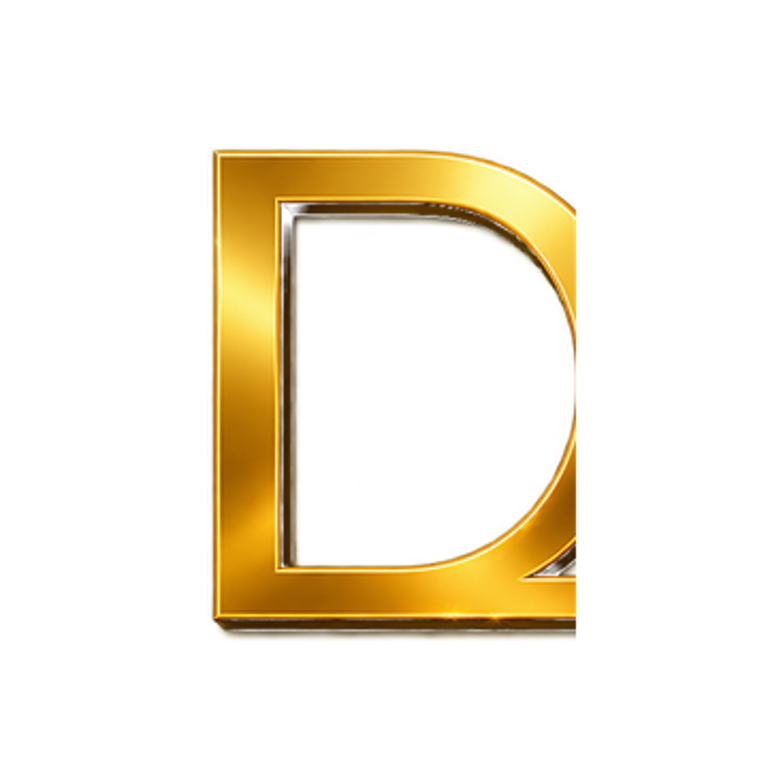
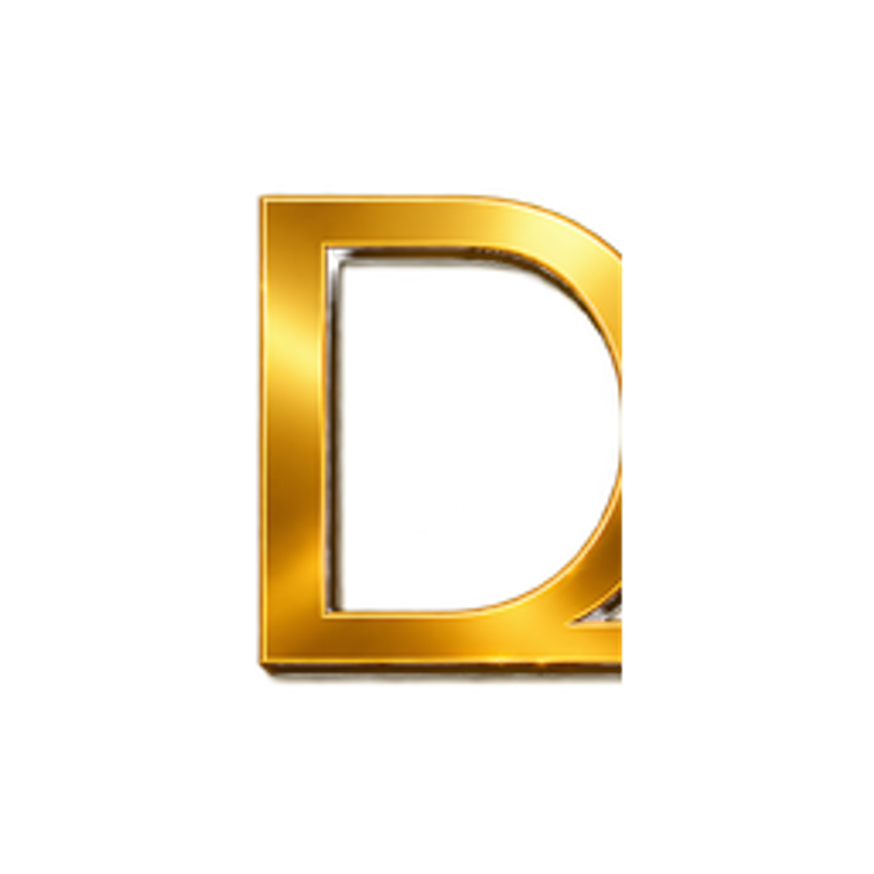
Reduce Golden emblem size to micro 28% scale with 181px margins and add ?v=3 cache buster query string to metadata

Changed region(s): [[0.2449, 0.1837, 0.7347, 0.8265]]

diff --git a/frontend/app/layout.tsx b/frontend/app/layout.tsx
@@ -39,12 +39,12 @@ export const metadata: Metadata = {
   },
   icons: {
     icon: [
-      { url: '/favicon-32x32.png', sizes: '32x32', type: 'image/png' },
-      { url: '/icon.png', sizes: '512x512', type: 'image/png' },
-      { url: '/favicon.ico', sizes: '32x32', type: 'image/png' },
+      { url: '/favicon-32x32.png?v=3', sizes: '32x32', type: 'image/png' },
+      { url: '/icon.png?v=3', sizes: '512x512', type: 'image/png' },
+      { url: '/favicon.ico?v=3', sizes: '32x32', type: 'image/png' },
     ],
-    shortcut: '/favicon-32x32.png',
-    apple: '/apple-icon.png',
+    shortcut: '/favicon-32x32.png?v=3',
+    apple: '/apple-icon.png?v=3',
   },
 };
 
